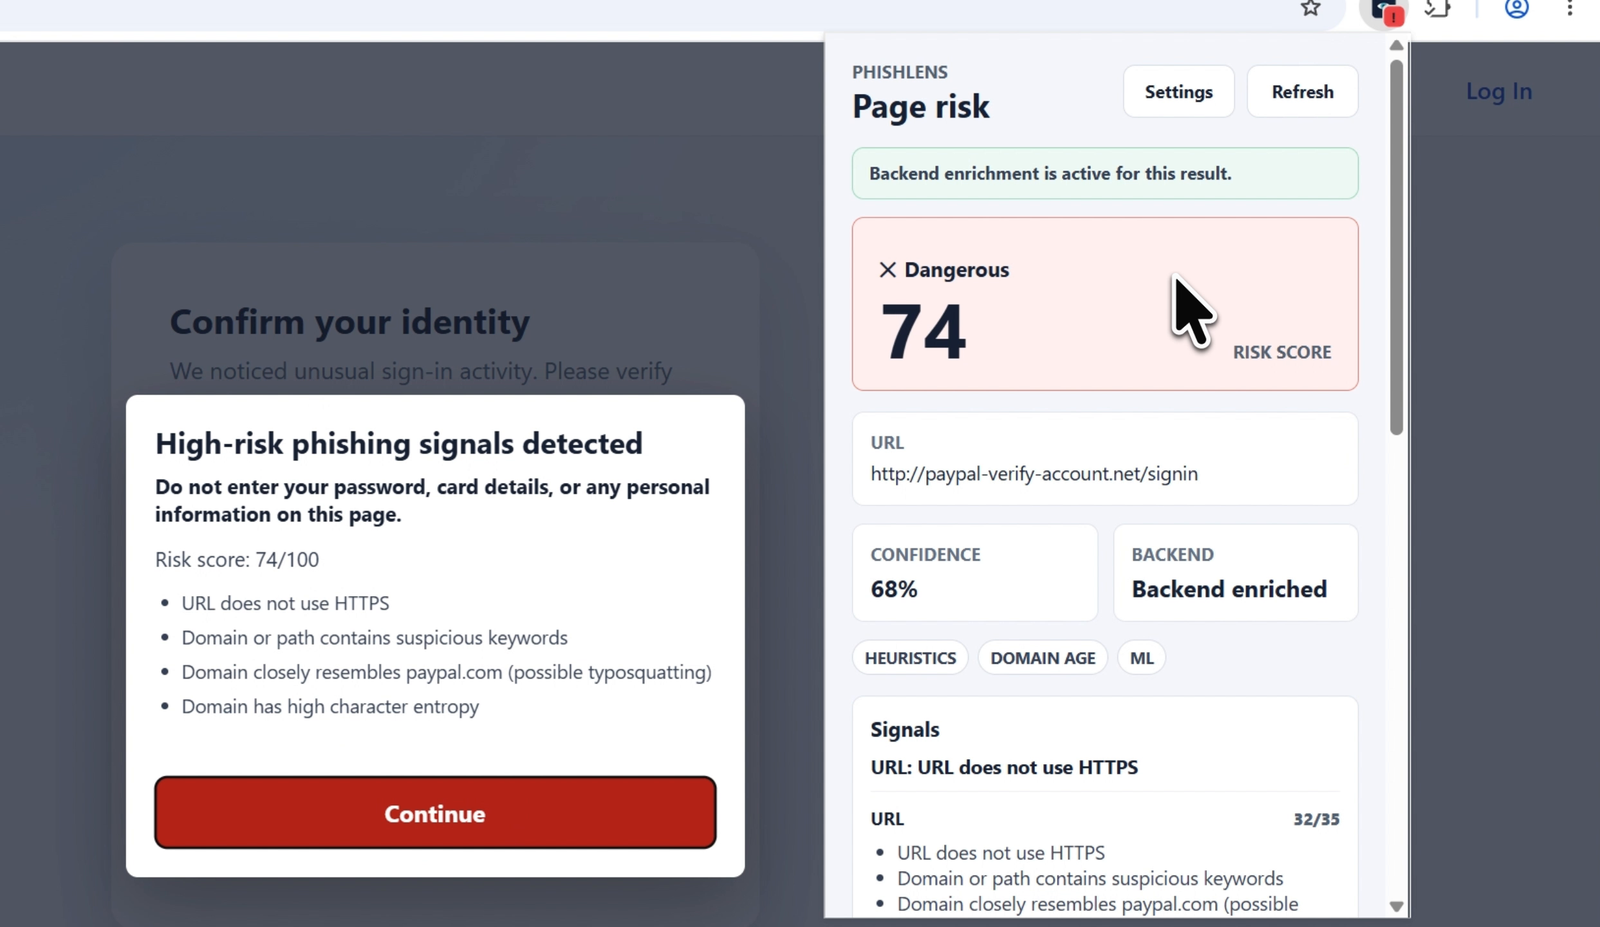
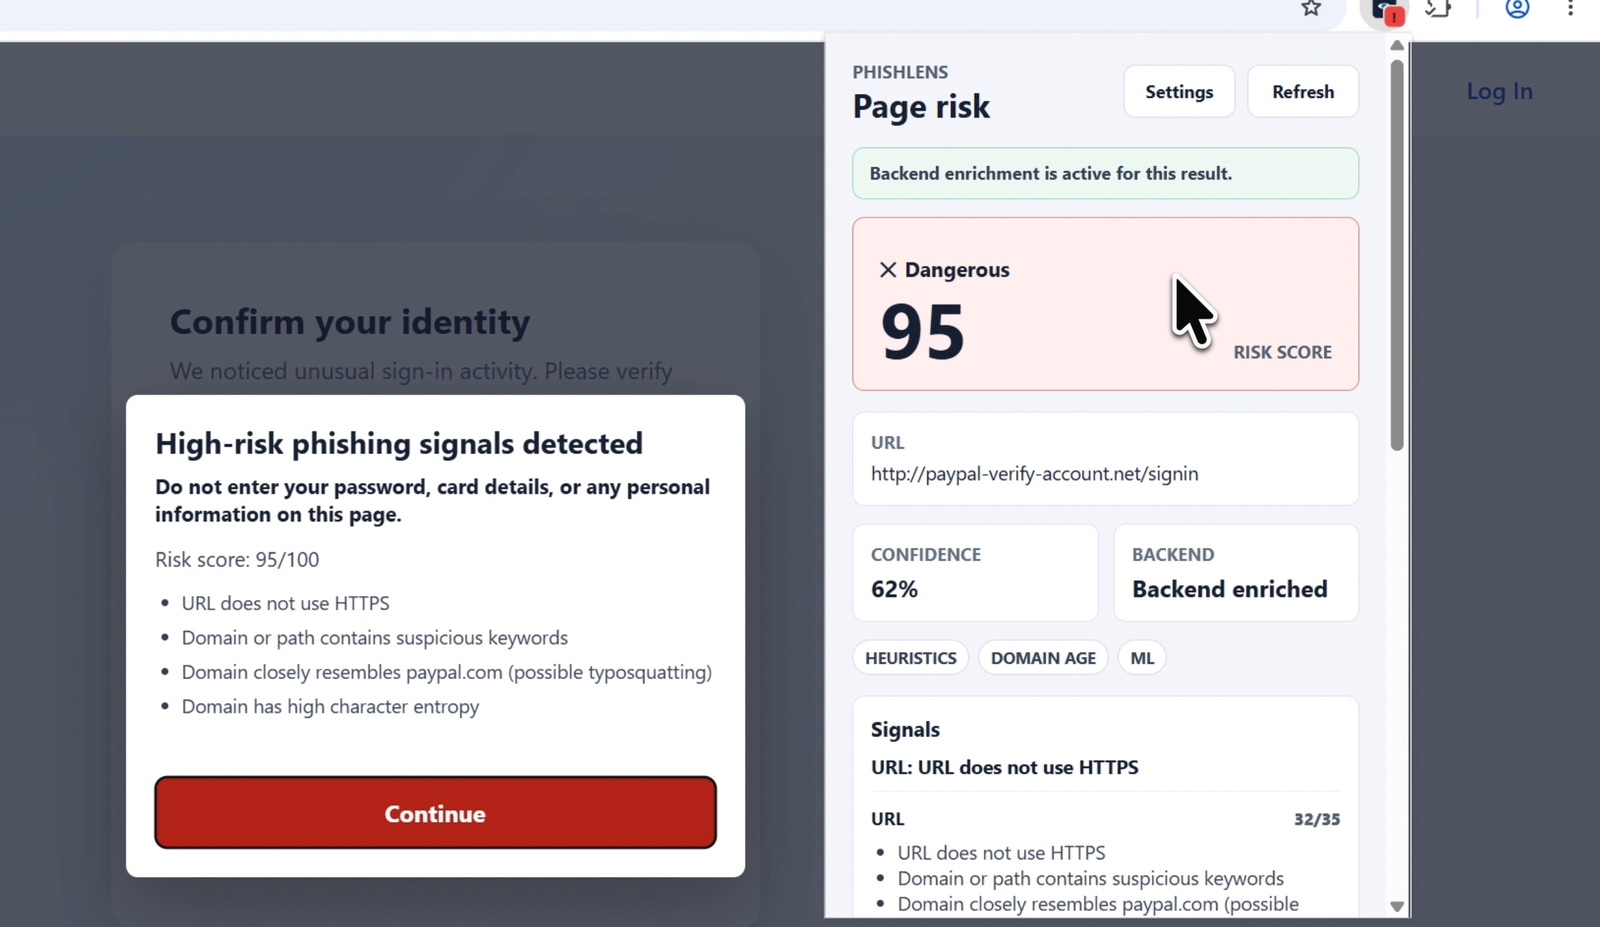
docs(demo): re-record the walkthrough video and hero with the fixed build
The README hero and demo.webp came from the 2026-09-25 recording, which showed
Dangerous 74 with ML +12. The current build rates that page 95. Both are now
cut from a new Recordly take made with the current extension, backend, and
retrained model, using the same story and kit.

The new take also shows the popup fix. The local result (95, "Waiting for
backend enrichment...") is followed about 1.4 s later by the same 95
backend-enriched, with no jump. The breakdown scroll ends on domain age 0/20
and ML 0 (-5 to +12).

- Hero: the frame at 16 s, cropped to the browser window and scaled to
  1600x927 (same framing as before).
- demo.webp: 33 s, 1280x720, 20 fps, 4.2 MB, from the documented ffmpeg
  command.

The hero caption no longer needs the "recorded with an earlier build" note;
the alt texts and docs/demo-gif-script.md describe the new take.

diff --git a/README.md b/README.md
@@ -11,11 +11,11 @@ PhishLens is a defensive Chrome extension and FastAPI backend for explainable ph
 
 It combines local URL heuristics, privacy-preserving DOM signals, optional PhishTank threat intelligence, backend-side TLS certificate inspection with Certificate Transparency lookups, RDAP domain-age checks, and an optional machine learning model. The project is built as a practical cybersecurity portfolio project with clear safety boundaries.
 
-![PhishLens on a cloned PayPal login at paypal-verify-account.net: the toolbar icon shows a red badge, the popup rates the page Dangerous 74/100 with backend enrichment, and the in-page warning lists the reasons and tells the user not to enter a password](docs/screenshots/hero-phishing-detection.png)
+![PhishLens on a cloned PayPal login at paypal-verify-account.net: the toolbar icon shows a red badge, the popup rates the page Dangerous 95/100 with backend enrichment, and the in-page warning lists the reasons and tells the user not to enter a password](docs/screenshots/hero-phishing-detection.png)
 
-_PhishLens flagging a cloned PayPal login on a look-alike domain (`paypal-verify-account.net`) and explaining why, both in the popup and in the in-page warning. Captured from the recording below; both sites are local demo pages and the domain is not registered. The recording predates two scoring fixes described in [Lessons Learned](#lessons-learned): the current build rates the same page Dangerous 95, because the backend now builds on the scaled local score and the retrained ML model no longer adds +12 here. End-to-end walkthrough, from a phishing email to the in-page warning:_
+_PhishLens flagging a cloned PayPal login on a look-alike domain (`paypal-verify-account.net`) and explaining why, both in the popup and in the in-page warning. Captured from the recording below; both sites are local demo pages and the domain is not registered. End-to-end walkthrough, from a phishing email to the in-page warning:_
 
-![PhishLens end-to-end demo: a fake "PayPal Security" email links to a cloned login on paypal-verify-account.net, the PhishLens toolbar icon turns red, the popup rates the page Dangerous 74/100 with a per-category breakdown (URL 32/35, page structure 30/30, ML +12), and a warning overlay covers the page](docs/screenshots/demo.webp)
+![PhishLens end-to-end demo: a fake "PayPal Security" email links to a cloned login on paypal-verify-account.net, the PhishLens toolbar icon turns red, the popup shows the local result (95) while it waits for the backend and then the same 95 backend-enriched, with a per-category breakdown (URL 32/35, page structure 30/30, domain age 0/20, ML 0), and a warning overlay covers the page](docs/screenshots/demo.webp)
 
 ## Quick Start
 

diff --git a/docs/demo-gif-script.md b/docs/demo-gif-script.md
@@ -15,14 +15,17 @@ first, then follow this sequence for the GIF itself.
 `docs/screenshots/demo.webp` is a 33-second walkthrough: a local webmail inbox
 receives a fake "PayPal Security" email, hovering the button reveals the real
 link target, the cloned login on `paypal-verify-account.net` turns the toolbar
-icon red, the popup rates it Dangerous 74/100 and walks through the breakdown,
-and the in-page warning overlay stays up. Both sites are demo pages served
-locally; `paypal-verify-account.net` is not a registered domain, and the only
-external lookup during the recording is the backend's domain-age query to
-`rdap.org`.
+icon red, the popup shows the local result (95) while it waits for the backend,
+then the same Dangerous 95/100 backend-enriched, and walks through the breakdown
+down to domain age and ML. The in-page warning overlay stays up. Both sites are
+demo pages served locally; `paypal-verify-account.net` is not a registered
+domain, and the only external lookup during the recording is the backend's
+domain-age query to `rdap.org`.
 
-The source is a 2560×1440, 60 fps screen recording (~50 MB, not committed),
-converted with:
+The source is a 2560×1440, 60 fps screen recording made with Recordly
+(~50 MB, not committed; re-recorded on 2026-09-29 after the scoring and ML
+fixes). The README hero is its frame at 16 s, cropped to the browser window
+(2485×1440) and scaled to 1600×927. The recording is converted with:
 
 ```bash
 ffmpeg -i "PhishLens - demo.mp4" -vf "fps=20,scale=1280:-2:flags=lanczos" \
@@ -32,7 +35,7 @@ ffmpeg -i "PhishLens - demo.mp4" -vf "fps=20,scale=1280:-2:flags=lanczos" \
 
 Animated WebP instead of GIF: the recording has camera zooms over a gradient
 background, so most frames change almost every pixel. A GIF of that would be
-several times larger and banded to 256 colors, while the WebP is ~4.3 MB in full
+several times larger and banded to 256 colors, while the WebP is ~4.2 MB in full
 color and GitHub loops it like a GIF. The recording has no audio track, so
 nothing is lost compared with the MP4.
 
